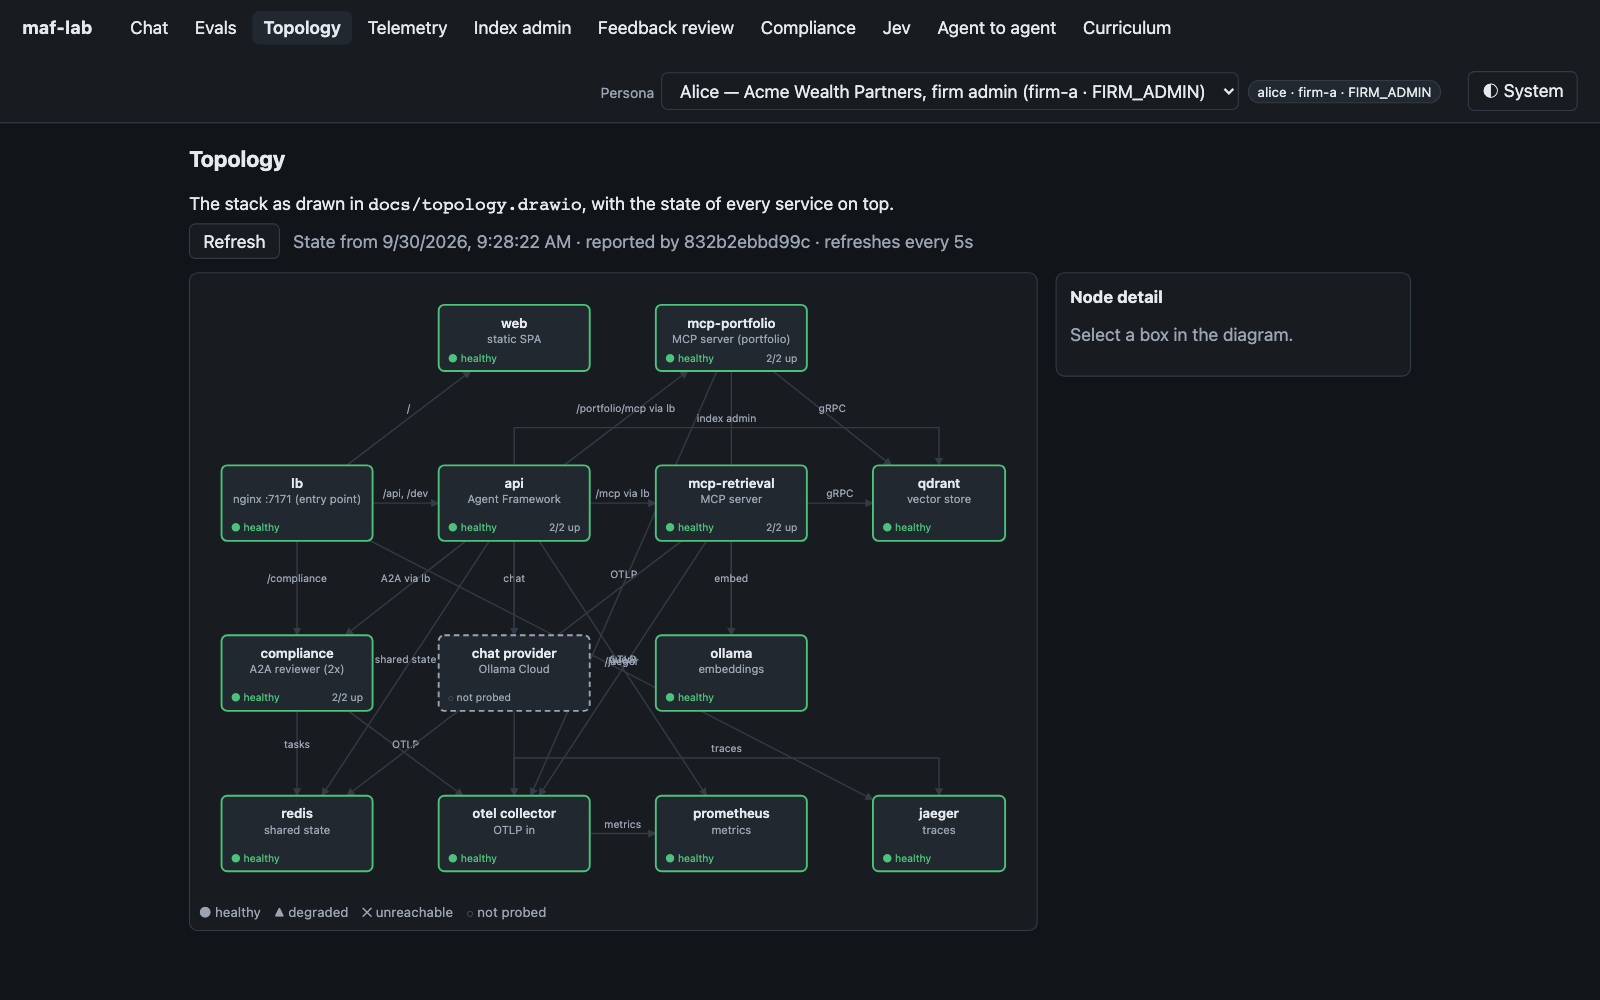
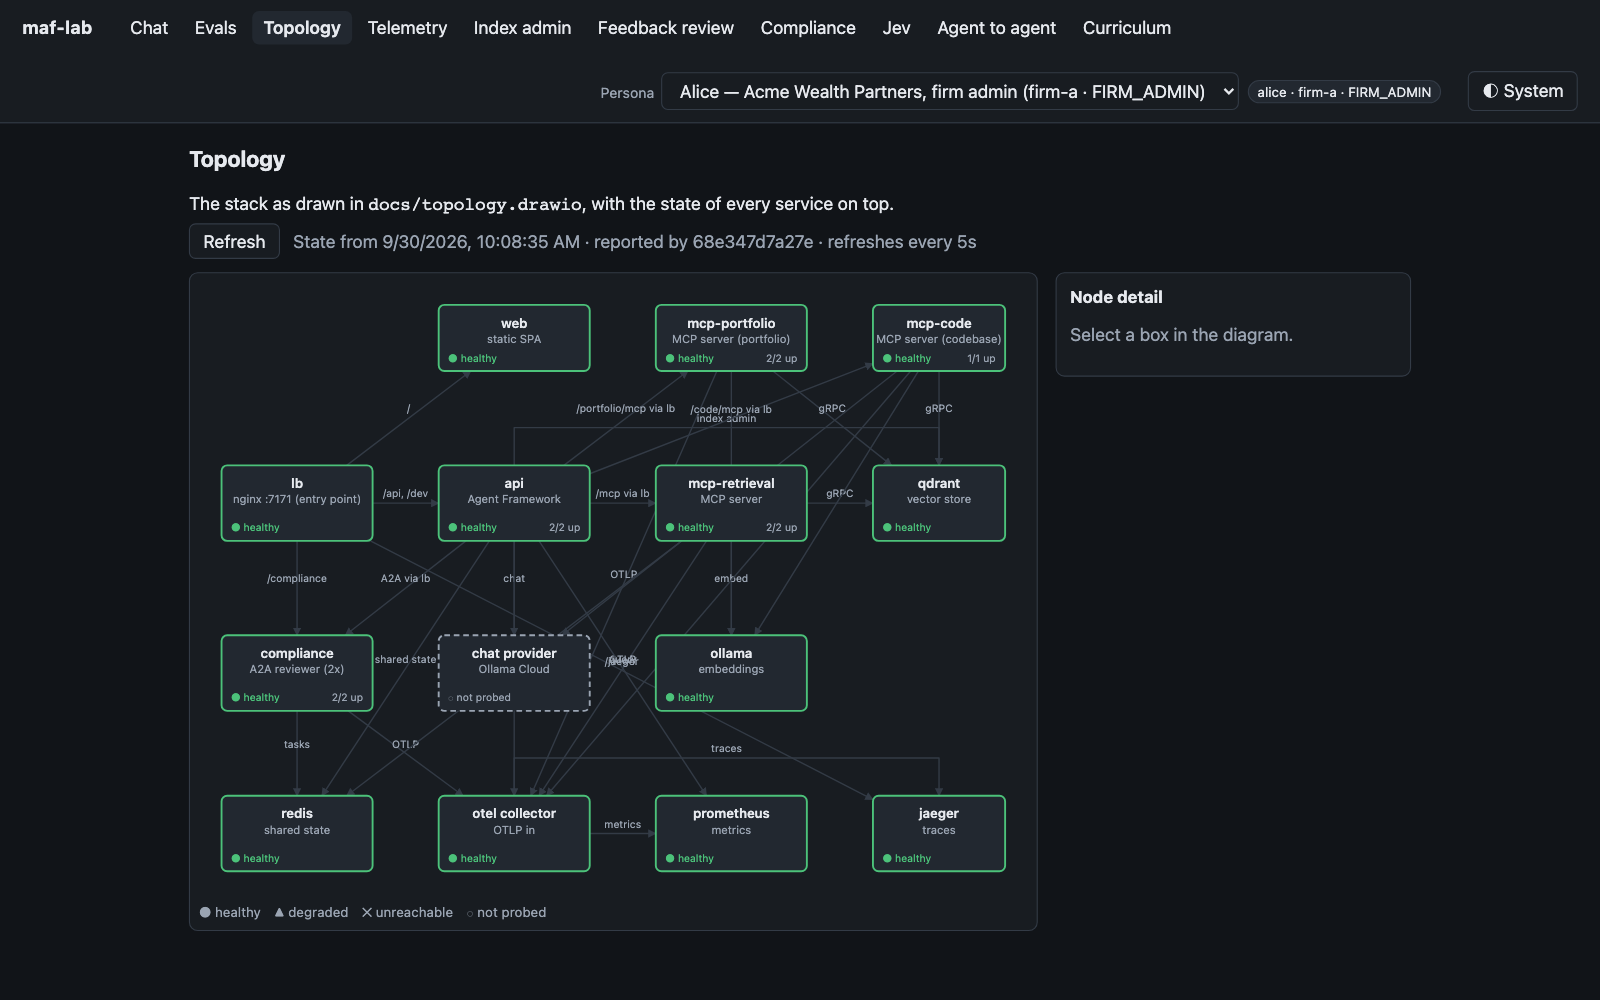
Show the codebase MCP server on the topology
add-codebase-domain added mcp-code at /code/mcp, but the topology report
and docs/topology.drawio still showed two MCP servers, so /topology had
no box for it and the README's "same picture" was no longer true.

- The report gains an mcp-code node: replicas discovered through the
  mcp-code service, the codebase server's endpoint from Agent:Servers,
  its tools from the report's one tools/list, degraded when that fails.
  Portfolio and codebase share one DomainServerAsync.
- Edges: api -> mcp-code (/code/mcp via lb), -> qdrant, -> ollama
  embeddings, -> chat provider (ask_codebase), -> otel collector.
- docs/topology.drawio draws it above Qdrant; the web diagram test and
  the README topology screenshot follow.

Changed region(s): [[0.2812, 0.217, 0.625, 0.248], [0.5312, 0.31, 0.625, 0.372], [0.4375, 0.403, 0.4688, 0.434]]

diff --git a/web/src/topology/parseDiagram.test.ts b/web/src/topology/parseDiagram.test.ts
@@ -17,6 +17,7 @@ describe('parseDiagram', () => {
       'jaeger',
       'lb',
       'mcp',
+      'mcp-code',
       'mcp-portfolio',
       'ollama-embeddings',
       'otel-collector',
@@ -32,6 +33,9 @@ describe('parseDiagram', () => {
     expect(diagram.edges).toContainEqual(expect.objectContaining({ source: 'api', target: 'mcp' }));
     expect(diagram.edges).toContainEqual(
       expect.objectContaining({ source: 'api', target: 'mcp-portfolio' }),
+    );
+    expect(diagram.edges).toContainEqual(
+      expect.objectContaining({ source: 'api', target: 'mcp-code' }),
     );
     // The extent covers every box with a margin, so it can be used as a viewBox.
     expect(diagram.extent.width).toBeGreaterThan(

diff --git a/src/Maf.Lab.Api/Topology/TopologyProbe.cs b/src/Maf.Lab.Api/Topology/TopologyProbe.cs
@@ -77,6 +77,12 @@ public sealed class TopologyProbe(
         new("mcp-portfolio", "qdrant", "gRPC"),
         new("mcp-portfolio", "ollama-embeddings", "embed"),
         new("mcp-portfolio", "otel-collector", "OTLP"),
+        // The codebase domain's server (add-codebase-domain): its own collection, and ask_codebase writes an answer.
+        new("api", "mcp-code", "/code/mcp via lb"),
+        new("mcp-code", "qdrant", "gRPC"),
+        new("mcp-code", "ollama-embeddings", "embed"),
+        new("mcp-code", "chat-provider", "ask_codebase"),
+        new("mcp-code", "otel-collector", "OTLP"),
         // Where everything the lab emits about itself goes, and where it is kept.
         new("api", "otel-collector", "OTLP"),
         new("mcp", "otel-collector", "OTLP"),
@@ -96,7 +102,7 @@ public sealed class TopologyProbe(
     /// <summary>Node ids the report always contains; the drawn diagram must hold exactly these.</summary>
     public static IReadOnlyList<string> NodeIds { get; } =
     [
-        "lb", "web", "api", "mcp", "mcp-portfolio", "compliance", "qdrant", "ollama-embeddings", "chat-provider",
+        "lb", "web", "api", "mcp", "mcp-portfolio", "mcp-code", "compliance", "qdrant", "ollama-embeddings", "chat-provider",
         "otel-collector", "prometheus", "jaeger", "redis",
     ];
 
@@ -121,8 +127,9 @@ public sealed class TopologyProbe(
         var apiAddresses = await resolver.ResolveAsync(o.ApiService, ct);
         var mcpAddresses = await resolver.ResolveAsync(o.McpService, ct);
         var portfolioAddresses = await resolver.ResolveAsync(o.PortfolioService, ct);
+        var codeAddresses = await resolver.ResolveAsync(o.CodeService, ct);
         var complianceAddresses = await resolver.ResolveAsync(o.ComplianceService, ct);
-        var discovery = apiAddresses.Count > 0 || mcpAddresses.Count > 0 || portfolioAddresses.Count > 0;
+        var discovery = apiAddresses.Count > 0 || mcpAddresses.Count > 0 || portfolioAddresses.Count > 0 || codeAddresses.Count > 0;
 
         var lb = Http("lb", "lb", o.LoadBalancerHealthUrl, timeout, ct);
         var web = Http("web", "web", o.WebHealthUrl, timeout, ct);
@@ -130,7 +137,8 @@ public sealed class TopologyProbe(
         // One tools/list per server for the whole report: each domain's node reads its own tools from the same answer.
         var offered = OfferedAsync(bearerToken, timeout, ct);
         var mcp = McpAsync(mcpAddresses, offered, timeout, ct);
-        var portfolio = PortfolioAsync(portfolioAddresses, offered, timeout, ct);
+        var portfolio = DomainServerAsync("mcp-portfolio", Domains.Portfolio, portfolioAddresses, offered, timeout, ct);
+        var code = DomainServerAsync("mcp-code", Domains.Codebase, codeAddresses, offered, timeout, ct);
         var compliance = ComplianceAsync(complianceAddresses, timeout, ct);
         var store = QdrantAsync(timeout, ct);
         var embeddings = EmbeddingsAsync(timeout, ct);
@@ -139,7 +147,7 @@ public sealed class TopologyProbe(
         var traces = Http("jaeger", "jaeger", o.JaegerHealthUrl, timeout, ct);
         var shared = SharedStateAsync(ct);
 
-        var probed = await Task.WhenAll(lb, web, api, mcp, portfolio, compliance, store, embeddings, collector, metrics, traces, shared);
+        var probed = await Task.WhenAll(lb, web, api, mcp, portfolio, code, compliance, store, embeddings, collector, metrics, traces, shared);
         var byId = probed.Append(ChatProvider()).ToDictionary(n => n.Id);
         var ordered = NodeIds.Select(id => byId[id]).ToList();
 
@@ -253,24 +261,26 @@ public sealed class TopologyProbe(
         return WithTools(node, await offered, Domains.Billing, agent.Value.McpEndpoint);
     }
 
-    private async Task<TopologyNode> PortfolioAsync(IReadOnlyList<string> addresses, Task<Offered> offered, TimeSpan timeout, CancellationToken ct)
+    /// <summary>A domain's own MCP server beside billing's (portfolio, codebase): configured through Agent:Servers.</summary>
+    private async Task<TopologyNode> DomainServerAsync(string id, string domain, IReadOnlyList<string> addresses, Task<Offered> offered,
+        TimeSpan timeout, CancellationToken ct)
     {
-        var endpoint = agent.Value.Servers.FirstOrDefault(s => s.Domain == Domains.Portfolio)?.Endpoint;
-        var node = await ReplicasAsync("mcp-portfolio", "mcp-portfolio", addresses, timeout, ct);
+        var endpoint = agent.Value.Servers.FirstOrDefault(s => s.Domain == domain)?.Endpoint;
+        var node = await ReplicasAsync(id, id, addresses, timeout, ct);
         if (string.IsNullOrWhiteSpace(endpoint))
         {
             return node with
             {
                 Facts = new Dictionary<string, string>(node.Facts) { ["endpoint"] = "not configured" },
                 Health = NodeHealth.Degraded,
-                Reason = "no portfolio MCP server is configured (Agent:Servers)",
+                Reason = $"no {domain} MCP server is configured (Agent:Servers)",
             };
         }
         var o = await offered;
         // Its own tools/list failing shows up as the domain being unavailable, not as the whole call failing.
-        return o.Unavailable.Contains(Domains.Portfolio)
-            ? WithTools(node, o with { Error = "tools/list failed" }, Domains.Portfolio, endpoint)
-            : WithTools(node, o, Domains.Portfolio, endpoint);
+        return o.Unavailable.Contains(domain)
+            ? WithTools(node, o with { Error = "tools/list failed" }, domain, endpoint)
+            : WithTools(node, o, domain, endpoint);
     }
 
     /// <summary>The domain's tools on its node; a failed tools/list degrades it, or makes it unreachable if no replica answers.</summary>

diff --git a/tests/Maf.Lab.Tests/TopologyTests.cs b/tests/Maf.Lab.Tests/TopologyTests.cs
@@ -19,9 +19,9 @@ public class TopologyTests
     private static readonly JsonSerializerOptions Json = new(JsonSerializerDefaults.Web);
 
     private static ApiFactory Api(StubHandler handler, IReadOnlyDictionary<string, string[]>? dns = null,
-        string complianceUrl = "http://compliance")
+        string complianceUrl = "http://compliance", FakeToolSource? tools = null)
     {
-        var api = new ApiFactory(ApiFactory.ProceduralModel())
+        var api = new ApiFactory(ApiFactory.ProceduralModel(), tools)
         {
             ExtraSettings = new Dictionary<string, string?> { ["Compliance:BaseUrl"] = complianceUrl },
         };
@@ -89,6 +89,24 @@ public class TopologyTests
         using var api = Api(StubHandler.AllHealthy());
         var response = await api.CreateClient().GetAsync("/api/topology", Ct);
         Assert.Equal(HttpStatusCode.Unauthorized, response.StatusCode);
+    }
+
+    [Fact]
+    public async Task The_codebase_server_is_reported_with_its_replicas_and_tools()
+    {
+        using var api = Api(StubHandler.AllHealthy(), new Dictionary<string, string[]> { ["mcp-code"] = ["10.0.0.21", "10.0.0.22"] },
+            tools: new FakeToolSource { WithCodebase = true });
+
+        var report = await GetAsync(api);
+
+        var node = Assert.Single(report.Nodes, n => n.Id == "mcp-code");
+        Assert.Equal(NodeHealth.Healthy, node.Health);
+        Assert.Equal(2, node.Instances.Count);
+        Assert.Equal("codebase", node.Facts["domain"]);
+        Assert.Contains("search_codebase", node.Facts["tools"]);
+        Assert.Equal("http://localhost:5092/mcp", node.Facts["endpoint"]);
+        Assert.Contains(report.Edges, e => e is { From: "api", To: "mcp-code" });
+        Assert.Contains(report.Edges, e => e is { From: "mcp-code", To: "qdrant" });
     }
 
     [Fact]

diff --git a/src/Maf.Lab.Api/Topology/TopologyOptions.cs b/src/Maf.Lab.Api/Topology/TopologyOptions.cs
@@ -11,6 +11,8 @@ public sealed class TopologyOptions
     public string McpService { get; set; } = "mcp-retrieval";
     /// <summary>Compose service name of the portfolio domain's MCP server. Empty disables discovery.</summary>
     public string PortfolioService { get; set; } = "mcp-portfolio";
+    /// <summary>Compose service name of the codebase domain's MCP server. Empty disables discovery.</summary>
+    public string CodeService { get; set; } = "mcp-code";
     /// <summary>The second agent's container name, resolved the same way the others are.</summary>
     public string ComplianceService { get; set; } = "compliance";
     /// <summary>Port both hosts listen on inside the network.</summary>

diff --git a/openspec/changes/add-mcp-code-to-topology/specs/system-topology/spec.md b/openspec/changes/add-mcp-code-to-topology/specs/system-topology/spec.md
@@ -1,0 +1,48 @@
+## MODIFIED Requirements
+
+### Requirement: Topology report
+The system SHALL expose, to any signed-in user, a report of the stack it is running in. The report SHALL contain one
+entry per service the lab is made of: the load balancer, the api, the MCP server of every domain (billing, portfolio and codebase), the compliance
+reviewer, the shared state store, the vector store, the
+model provider used for chat, the model provider used for embeddings, the web app, the telemetry collector, the
+metrics store and the trace store. Each entry SHALL carry a
+stable id, a display name, a health state of `healthy`, `degraded` or `unreachable`, the instances found for it (each with its
+name and its own health), and the time the state was determined. The report SHALL also carry the
+edges between services, so the picture of what talks to what comes from the system and not only from the drawing.
+
+The report MUST contain infrastructure facts only: no tenant data, no message content, no credentials — in
+particular, a configured API key SHALL never be reported, only whether one is configured.
+
+#### Scenario: Every service is reported
+- **WHEN** a signed-in user requests the topology
+- **THEN** the report contains an entry for each service and the edges between them
+
+#### Scenario: Every domain's MCP server is reported
+- **WHEN** the topology is requested
+- **THEN** the billing, portfolio and codebase MCP servers each have an entry with their replicas, their endpoint and
+  the tools they offer, and an edge from the api
+
+#### Scenario: The telemetry services are part of the stack
+- **WHEN** the topology is requested
+- **THEN** the collector, the metrics store and the trace store are reported like any other service, with the
+  edges that carry telemetry to them
+
+#### Scenario: Replicas are named
+- **WHEN** api and the MCP server each run two replicas
+- **THEN** each entry lists both instance names, whether or not those replicas have ever served a request
+
+#### Scenario: One replica of a service is down
+- **WHEN** one of the two api replicas does not answer
+- **THEN** api is reported `degraded`, the answering replica is listed healthy and the silent one is not listed healthy
+
+#### Scenario: Replicas cannot be discovered
+- **WHEN** the system runs as a single process, outside the container network
+- **THEN** the report lists the one instance it can speak for, and says discovery was unavailable rather than failing
+
+#### Scenario: Not signed in
+- **WHEN** the topology is requested without a valid token
+- **THEN** the request is rejected as unauthorized
+
+#### Scenario: No secrets
+- **WHEN** the chat provider is configured with an API key
+- **THEN** the report states that a key is configured and never contains the key

diff --git a/openspec/changes/add-mcp-code-to-topology/proposal.md b/openspec/changes/add-mcp-code-to-topology/proposal.md
@@ -1,0 +1,39 @@
+# Proposal
+
+## Why
+
+`add-codebase-domain` added a third MCP server, `mcp-code`, at `/code/mcp`, but the topology report and
+`docs/topology.drawio` were not updated. `/topology` does not show the service, its health or its tools, and the
+README's claim that the drawing is "the same picture" as the stack is no longer true. The test that keeps the drawing
+and the report in step passes only because both miss the same node.
+
+## What Changes
+
+- The topology report gains an `mcp-code` node, built like `mcp-portfolio`:
+  - its replicas are discovered through the `mcp-code` compose service;
+  - its endpoint comes from the agent's codebase server;
+  - its tools come from the same single tools/list the report already makes;
+  - a failed tools/list degrades the node.
+- The node has these edges:
+  - api → mcp-code (`/code/mcp via lb`);
+  - mcp-code → qdrant (gRPC);
+  - mcp-code → ollama embeddings (embed);
+  - mcp-code → chat provider (`ask_codebase`);
+  - mcp-code → otel collector (OTLP).
+- `docs/topology.drawio` draws the node and the same edges, in the free cell above Qdrant.
+- The `system-topology` spec lists every domain's MCP server, the compliance reviewer and the shared state store
+  among the reported services. The report already includes the last two.
+
+## Capabilities
+
+### New Capabilities
+<!-- None. -->
+
+### Modified Capabilities
+- `system-topology`: the Topology report requirement names every domain's MCP server, with a scenario for it.
+
+## Impact
+
+- `src/Maf.Lab.Api/Topology/` (`TopologyOptions.CodeService`, `TopologyProbe`), `docs/topology.drawio`,
+  `tests/Maf.Lab.Tests/TopologyTests.cs`.
+- The README topology screenshot is re-taken.

diff --git a/openspec/changes/add-mcp-code-to-topology/tasks.md b/openspec/changes/add-mcp-code-to-topology/tasks.md
@@ -1,0 +1,15 @@
+# Tasks
+
+## 1. Report
+
+- [x] 1.1 Add `TopologyOptions.CodeService` (`mcp-code`) and an `mcp-code` node to `TopologyProbe`: replicas, the codebase server's endpoint from `Agent:Servers`, its tools from the shared tools/list, and degraded when that list fails or no codebase server is configured. Add it to `NodeIds` and add its edges. Verify: a topology test asserts the node, its tools fact and the api → mcp-code edge
+
+## 2. Drawing
+
+- [x] 2.1 Draw `mcp-code` in `docs/topology.drawio` at x=930 y=120 with the report's edges. Verify: `The_diagram_is_served_and_holds_exactly_the_reported_nodes` and `No_two_boxes_in_the_diagram_overlap` pass
+
+## 3. Verification
+
+- [x] 3.1 `make test-dotnet`, `make lint-dotnet` and `make test-web` pass
+- [x] 3.2 Rebuild the stack. Verify: `/topology` shows `mcp-code` healthy with its tools, and `make screenshots SHOTS=topology` re-takes the README image
+- [x] 3.3 `openspec validate add-mcp-code-to-topology --strict` passes
